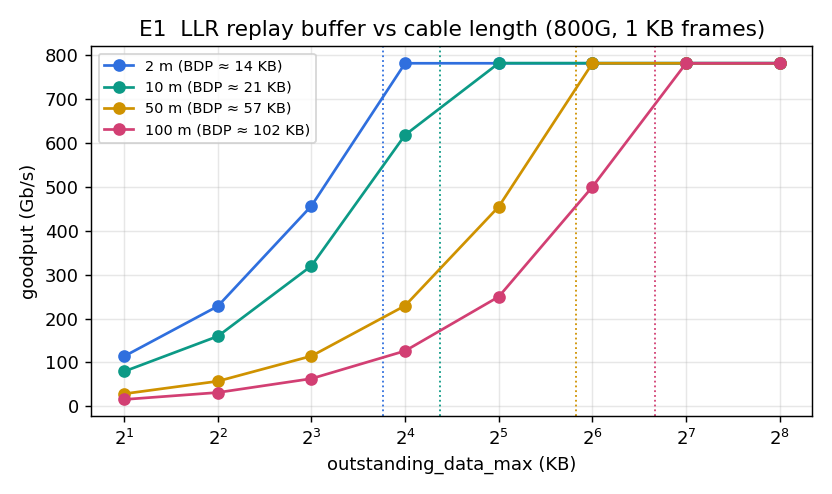
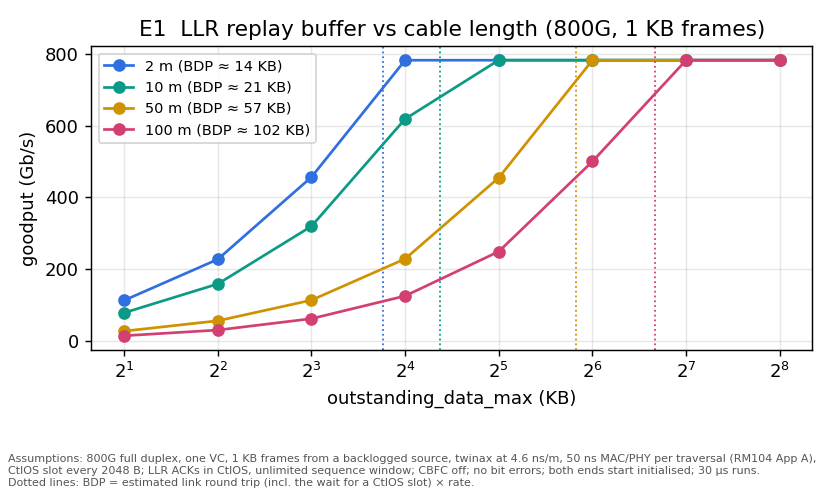
experiments: every figure states its modelling assumptions
Each plot in run_m2.py and run_m3.py prints an 'Assumptions:' footnote on the PNG
(the non-spec choices behind it: command word, TX buffer, RODL window, ACK hold,
cable, MAC/PHY, switch model, seeds, run length) and the docs repeat them next to
the figure with a pointer to the decision they come from. Numbers unchanged.

diff --git a/tools/run_m3.py b/tools/run_m3.py
@@ -6,6 +6,7 @@ Writes plots to docs/experiments/img/m3-*.png and numbers to docs/experiments/su
 
 import json
 import statistics
+import textwrap
 import time
 from pathlib import Path
 
@@ -23,6 +24,16 @@ OUT = Path(__file__).resolve().parent.parent / "docs" / "experiments"
 IMG = OUT / "img"
 plt.rcParams.update({"figure.dpi": 130, "axes.grid": True, "grid.alpha": 0.3, "font.size": 10})
 STACK_COL = {"ufh16": "#2f6fde", "esun": "#0c9a86", "udp": "#cf9200"}
+XPU_SIDE = ("XPU interface: payload + 16 B command word per transaction (stand-in for §8.4.1's xpuid/vc/control, width unspecified), "
+            "64 KB TX buffer; receiver 50 ns unpack + 100 ns XPU; bare ACK after 100 ns without reverse traffic")
+LINK = "link: 800G, 3 m twinax at 4.6 ns/m, 50 ns MAC/PHY per traversal, LLR + CBFC on; switch store-and-forward, 0 ns pipeline"
+
+
+def assumptions(fig, text):
+    """Print the modelling assumptions behind a figure on the figure itself, so the PNG stands alone."""
+    lines = textwrap.wrap("Assumptions: " + text, width=int(fig.get_figwidth() * 22))
+    fig.text(0.01, 0.012, "\n".join(lines), fontsize=6.2, color="#555", ha="left", va="bottom", linespacing=1.25)
+    fig.tight_layout(rect=(0, 0.02 + len(lines) * 10.5 / 72 / fig.get_figheight(), 1, 1))
 
 
 def summary(r, extra=None):
@@ -71,7 +82,11 @@ def t1_wire_table():
     ax.set_ylabel("wire efficiency (%), preamble + IPG included")
     ax.set_title("T1  SUE-T wire efficiency vs RoCEv2 (stores, ACKs piggybacked)")
     ax.legend(fontsize=7.5, ncol=2)
-    fig.tight_layout()
+    assumptions(fig, "analytical (sim/wire.py), 256 B stores. Per CMD_PDU: UET_HDR_REQUEST_LCL 12 B for the first, 8 B compressed after; "
+                     "per packet: 4 B UET CRC, 4 B FCS, 64 B minimum frame, 20 B preamble + IPG. Stacks: UFH_16 + RODL 16 B (ACK 20 B), "
+                     "ESUN 30 B, UDP/IP 54 B. ACKs ride on a reverse request (bare 64 B ACK per packet: table in the doc). Delivery mode: "
+                     "a 16 B response command, packed like requests, whose packet needs its own ACK. RoCEv2: Eth/IP/UDP/BTH 54 B + RETH 16 B + "
+                     "ICRC 4 B per write, 66 B ACKs.")
     fig.savefig(IMG / "m3-t1-wire.png")
     return res
 
@@ -108,7 +123,8 @@ def t2_packing_vs_load():
     h1, l1 = a1.get_legend_handles_labels()
     h2, l2 = a2.get_legend_handles_labels()
     a1.legend(h1 + h2, l1 + l2, fontsize=8, loc="center left")
-    fig.tight_layout()
+    assumptions(fig, f"2 XPUs, A to B only, 1 MB as 256 B stores, UFH_16, operational ACK, one 800G port. {XPU_SIDE}. RODL: 64-packet "
+                     f"window (dotted: 1024), 20 µs RTO. {LINK}. Latency = XPU hand-over to ACK received, queueing included.")
     fig.savefig(IMG / "m3-t2-packing.png")
     return res
 
@@ -165,7 +181,10 @@ def t4_where_the_retry_lives():
     a2.set_ylabel("p99 transaction latency (ns)")
     a2.set_yscale("log")
     a2.set_title("T4b  tail latency")
-    fig.tight_layout()
+    assumptions(fig, f"8 XPUs, one port each, all-to-all of 32 KB per peer as 256 B stores, UFH_16, operational ACK; post-FEC BER on every "
+                     f"cable (far above real rates, to get events in a 3 ms run), 2 seeds averaged. LLR when on: 64 KB replay buffer, 2 µs "
+                     f"replay timer, 8 retries. RODL: 64-packet window, Go-Back-N on a NACK or on the RTO (20 µs, or 4 µs where stated); "
+                     f"SUE-lite: no retransmission, a loss closes the PDC and fails what is in flight. {XPU_SIDE}. {LINK}.")
     fig.savefig(IMG / "m3-t4-retry.png")
     return res
 
@@ -208,7 +227,10 @@ def t6_allreduce_tail():
     ax.set_ylabel("fraction of runs")
     ax.set_title("T6  completion-time distribution")
     ax.legend(fontsize=8)
-    fig.tight_layout()
+    assumptions(fig, f"8 XPUs, one port each; ring all-reduce of 1 MB: 7 reduce-scatter steps of 128 KB stores to the next XPU, then 7 "
+                     f"all-gather steps of 128 KB loads from the previous one; one chunk per step in flight (no pipelining), a step starts "
+                     f"when its data and the previous step's ACKs are in; start offsets random up to 300 ns, 12 seeds. UFH_16, RODL "
+                     f"64-packet window. {XPU_SIDE}. {LINK}. Ideal = 2(n-1) chunks of 128 KB at 800G.")
     fig.savefig(IMG / "m3-t6-allreduce.png")
     return res
 

diff --git a/tools/run_m2.py b/tools/run_m2.py
@@ -6,6 +6,7 @@ and numbers to docs/experiments/llr-cbfc-results.json.
 
 import json
 import statistics
+import textwrap
 from pathlib import Path
 
 import matplotlib
@@ -20,6 +21,14 @@ IMG = OUT / "img"
 CABLES = [2, 10, 50, 100]
 COLORS = {2: "#2f6fde", 10: "#0c9a86", 50: "#cf9200", 100: "#d23f73"}
 plt.rcParams.update({"figure.dpi": 130, "axes.grid": True, "grid.alpha": 0.3, "font.size": 10})
+LINK = "800G full duplex, one VC, 1 KB frames from a backlogged source, twinax at 4.6 ns/m, 50 ns MAC/PHY per traversal (RM104 App A), CtlOS slot every 2048 B"
+
+
+def assumptions(fig, text):
+    """Print the modelling assumptions behind a figure on the figure itself, so the PNG stands alone."""
+    lines = textwrap.wrap("Assumptions: " + text, width=int(fig.get_figwidth() * 22))
+    fig.text(0.01, 0.012, "\n".join(lines), fontsize=6.2, color="#555", ha="left", va="bottom", linespacing=1.25)
+    fig.tight_layout(rect=(0, 0.02 + len(lines) * 10.5 / 72 / fig.get_figheight(), 1, 1))
 
 
 def e1_replay_buffer():
@@ -40,7 +49,8 @@ def e1_replay_buffer():
     ax.set_ylabel("goodput (Gb/s)")
     ax.set_title("E1  LLR replay buffer vs cable length (800G, 1 KB frames)")
     ax.legend(fontsize=8)
-    fig.tight_layout()
+    assumptions(fig, f"{LINK}; LLR ACKs in CtlOS, unlimited sequence window; CBFC off; no bit errors; both ends start initialised; "
+                     f"30 µs runs. Dotted lines: BDP = estimated link round trip (incl. the wait for a CtlOS slot) × rate.")
     fig.savefig(IMG / "e1-replay-buffer.png")
     return res
 
@@ -66,7 +76,9 @@ def e2_credits():
     ax.set_ylabel("goodput (Gb/s)")
     ax.set_title("E2  CBFC credit pool vs cable length (800G, 1 KB frames)")
     ax.legend(fontsize=8)
-    fig.tight_layout()
+    assumptions(fig, f"{LINK}; LLR on with an unbounded replay buffer; 64 B credits, no PktOvhd; CF_Update in CtlOS with CF_min 20 ns "
+                     f"and CF_max 500 ns, CC_Update every 2 µs; receiver drains at 800G; no bit errors; 30 µs runs. Dotted lines: "
+                     f"estimated credit loop (flight + slot wait + CF_min + flight back) × rate ÷ 64 B.")
     fig.savefig(IMG / "e2-credits.png")
     return res
 
@@ -101,7 +113,9 @@ def e3_ber():
     a2.set_yscale("log")
     a2.set_ylabel("lost frames per million")
     a2.set_title("E3b  loss seen by the transport (0 drawn at 0.05)")
-    fig.tight_layout()
+    assumptions(fig, f"{LINK}, 3 m cable; post-FEC BER applied per frame and per CtlOS (far above real rates of ~1e-12 and below, so a "
+                     f"200 µs run has errors), 3 seeds averaged. LLR: 64 KB replay buffer, 2 µs replay timer, 8 retries then FLUSH; CBFC on "
+                     f"with 1024 credits of 64 B. 'Lost' = frames the transport never received; latency = first send to in-order receipt.")
     fig.savefig(IMG / "e3-ber.png")
     return res
 

diff --git a/docs/experiments/suet-endpoint.md b/docs/experiments/suet-endpoint.md
@@ -27,6 +27,8 @@ Analytical, from `sim/wire.py`. 256 B stores; efficiency = payload ÷ everything
 
 ![T1](img/m3-t1-wire.png)
 
+*Assumptions (also printed on the figure):* byte counts from `sim/wire.py` as listed under [The model](#the-model); ACKs ride on a reverse request, the bracketed numbers charge a bare 64 B ACK per packet; delivery mode uses a 16 B response command (M3-3) whose packet needs its own ACK; RoCEv2 is Eth/IP/UDP/BTH + RETH + ICRC with 66 B ACKs.
+
 | Packed per packet | 1 | 2 | 4 | 8 | 16 |
 |---|---|---|---|---|---|
 | UFH_16, operational ACK | 82.1 (64.7) | 88.9 (77.6) | 92.8 (86.2) | 94.8 (91.3) | 95.9 (94.0) |
@@ -52,6 +54,8 @@ Two XPUs, one way: XPU A writes 1 MB to XPU B as 4096 stores of 256 B, operation
 *Predict: at what interface rate does the average packet carry more than one transaction, and what happens to latency when the XPU outruns the port?*
 
 ![T2](img/m3-t2-packing.png)
+
+*Assumptions (also printed on the figure):* the 16 B command word per store on the XPU interface and the 64 KB transmit buffer (M3-9), the 64-packet RODL window (M3-11; the dotted line uses 1024), the 100 ns ACK hold (M3-2), 50 ns unpack + 100 ns XPU at the receiver (M3-9), 3 m cables with 50 ns MAC/PHY per traversal, a store-and-forward switch with no pipeline latency (M3-8).
 
 | XPU interface | CMD_PDUs / packet | Wire efficiency | Goodput (Gb/s) | p50 latency | p99 latency | Packets | CMD_PDUs / packet, window 1024 | Efficiency, window 1024 | p99, window 1024 |
 |---|---|---|---|---|---|---|---|---|---|
@@ -119,6 +123,8 @@ Eight XPUs, all-to-all stores, bit errors on every cable, two seeds. Post-FEC er
 
 ![T4](img/m3-t4-retry.png)
 
+*Assumptions (also printed on the figure):* bit errors are applied per frame at the stated post-FEC rate, on every cable, two seeds averaged; LLR with the M2 defaults (64 KB replay buffer, 2 µs replay timer, 8 retries); RODL with a 64-packet window (M3-11) and a fixed RTO (M3-7); SUE-lite closes the PDC on a loss and fails everything in flight; XPU side and link as in T2.
+
 | Variant | BER | Done / failed | Completion | p99 latency | Max latency | Efficiency | RODL NACK / retx / timeouts | PDCs closed | LLR replays |
 |---|---|---|---|---|---|---|---|---|---|
 | LLR on + RODL retx | 1e-7 | 14336 / 0 | 3.33 µs | 1.69 µs | 1.89 µs | 93.0 % | 0 / 0 / 0 | 0 | 68 |
@@ -163,6 +169,8 @@ Eight XPUs, 1 MB, ring algorithm: seven reduce-scatter steps of 128 KB stores to
 *Predict: how close to 2(n−1) chunk times at line rate (18.4 µs) does it get?*
 
 ![T6](img/m3-t6-allreduce.png)
+
+*Assumptions (also printed on the figure):* one 128 KB chunk per step in flight with no pipelining, and a step starts only when its data has arrived and the previous step's ACKs are in (this is the collective library's choice, not SUE-T's); start offsets random up to 300 ns; XPU side, RODL window and link as in T2; the ideal line is 2(n−1) chunks at 800G with no per-step wait.
 
 | ACK mode | Completion p50 | min | max | Transaction p99 |
 |---|---|---|---|---|

diff --git a/docs/experiments/llr-cbfc.md b/docs/experiments/llr-cbfc.md
@@ -20,6 +20,8 @@ Checks: 16 tests in `tests/test_sim.py`, including one forced corruption → exa
 
 ![E1](img/e1-replay-buffer.png)
 
+*Assumptions (also printed on the figure):* the link of [The model](#the-model) with 1 KB frames from a backlogged source; CBFC off and no errors, so the replay buffer is the only limit; the dotted BDP lines use the estimated round trip including the wait for a CtlOS slot.
+
 | Cable | Link round trip (est.) | BDP at 800G | Buffer for full rate (measured) |
 |---|---|---|---|
 | 2 m | ~139 ns | ~14 KB | 16 KB |
@@ -35,6 +37,8 @@ Below the bandwidth-delay product the link is window-limited: goodput ≈ buffer
 
 ![E2](img/e2-credits.png)
 
+*Assumptions (also printed on the figure):* LLR on with an unbounded replay buffer so that only credits limit the link; 64 B credits with no PktOvhd; CF_Update in CtlOS with CF_min 20 ns and CF_max 500 ns; the receiver drains at full rate, so the buffer never fills for any other reason; no errors.
+
 | Cable | Credit loop estimate | Credits needed (64 B) | Measured knee |
 |---|---|---|---|
 | 2 m | ~170 ns | ~265 | 256 → 755 Gb/s, 512 → full |
@@ -49,6 +53,8 @@ The credit loop is longer than the LLR loop: frame flight + waiting for a CtlOS 
 ## E3. LLR on vs off: what reaches the transport?
 
 ![E3](img/e3-ber.png)
+
+*Assumptions (also printed on the figure):* 3 m cable; the post-FEC error rate is applied per frame and per CtlOS and is far above real rates (around 1e-12 and below) so that a 200 µs run contains errors; three seeds averaged; LLR with a 64 KB replay buffer, 2 µs replay timer and 8 retries before FLUSH; CBFC on with 1024 credits.
 
 | Post-FEC BER | LLR off: lost frames / million | LLR off: goodput | LLR on: lost | LLR on: goodput | LLR on: frames replayed per error | LLR on: p99 latency |
 |---|---|---|---|---|---|---|
